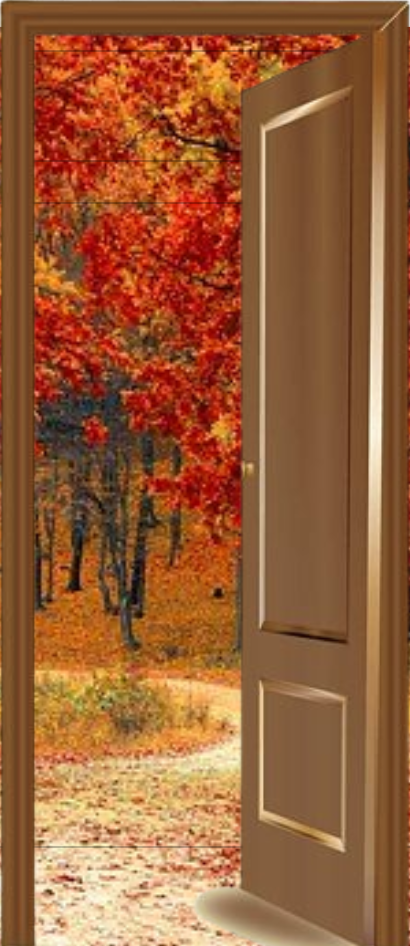
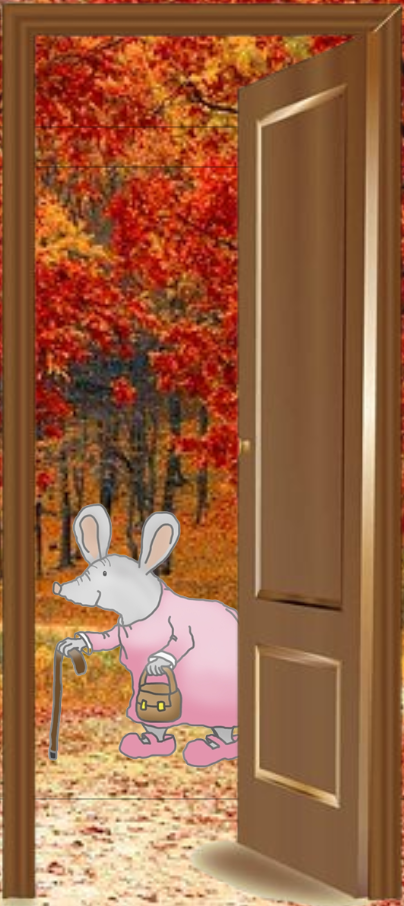
added grandma

diff --git a/app/main.js b/app/main.js
@@ -45,24 +45,21 @@ Leap.loop({
 
     // SETUP mode
     if (gameState.get("state") == "setup") {
-
       cursorObject.setProperties({ backgroundColor: "pink" });
-      currentRoom.getItems()
-        .forEach((item) => {
-          if (item.isHovered(cursorPosition)) {
-            if (item.get("grabbable")) {
-              cursorObject.setProperties({ backgroundColor: "#00ffff" });
-            } else {
-              cursorObject.setProperties({ backgroundColor: "#66ff33" });
-            }
+      currentRoom.getItems().forEach((item) => {
+        if (item.isHovered(cursorPosition)) {
+          if (item.get("grabbable")) {
+            cursorObject.setProperties({ backgroundColor: "#00ffff" });
+          } else {
+            cursorObject.setProperties({ backgroundColor: "#66ff33" });
           }
-        });
+        }
+      });
 
       isGrabbing = hand.grabStrength > 0.5;
       if (isGrabbing) {
         console.log("isGrabbing");
         if (tryGrab()) {
-
         } else if (!disableTransition) {
           if (cursorPosition[0] < window.innerWidth * 0.1) {
             currentRoom.transition("left");
@@ -87,23 +84,19 @@ Leap.loop({
         if (grabbedItem) {
           grabbedItem.set("holding", true);
         }
-      }
-
-      else if (grabbedItem && isGrabbing) {
-        itemPosition = [cursorPosition[0] - grabbedOffset[0], cursorPosition[1] - grabbedOffset[1]];
+      } else if (grabbedItem && isGrabbing) {
+        itemPosition = [
+          cursorPosition[0] - grabbedOffset[0],
+          cursorPosition[1] - grabbedOffset[1],
+        ];
         grabbedItem.set("position", itemPosition);
         // move the item
-      }
-  
-      else if (grabbedItem && !isGrabbing) {
+      } else if (grabbedItem && !isGrabbing) {
         // check if they can use the item
         var hoveredItem = getHoveredItem(cursor.get("screenPosition"));
-        
+
         if (hoveredItem) {
-          var objectWasUsed = useObjectOnItem(
-            grabbedItem,
-            hoveredItem
-          );
+          var objectWasUsed = useObjectOnItem(grabbedItem, hoveredItem);
           if (objectWasUsed) {
             inventory.removeItem(grabbedItem, 1);
             currentRoom.drawView();
@@ -180,10 +173,7 @@ var processSpeech = function (transcript) {
       tryGrab();
     } else if (hoveredItem && usedItem) {
       processed = true;
-      var objectWasUsed = useObjectOnItem(
-        usedItem,
-        hoveredItem
-      );
+      var objectWasUsed = useObjectOnItem(usedItem, hoveredItem);
       if (objectWasUsed) {
         inventory.removeItem(usedItem, 1);
         inventory.draw();
@@ -259,7 +249,7 @@ function useObjectOnItem(object, item) {
         item.set("isOpen", true);
         item.set("source", "img/door_opened.png");
         generateSpeech(
-          "You unlocked the door. Congrats on solving the escape room"
+          "You unlocked the door. You see the mouse's gradnma waiting for him outside. Congrats on solving the escape room"
         );
         currentRoom.drawView();
         return true;
@@ -278,7 +268,7 @@ function useObjectOnItem(object, item) {
         );
         inventory.addItem(key);
         console.log(key);
-        console.log('items:', inventory.get('items'));
+        console.log("items:", inventory.get("items"));
         currentRoom.drawView();
         return true;
       } else if (item.get("state") == "happy") {

diff --git a/app/room1.js b/app/room1.js
@@ -9,7 +9,7 @@ mousehole = new Item({
       ? "img/mousehole_happy.png"
       : "img/mousehole_dead.png";
   },
-  size: [100, 100],
+  size: [130, 100],
   position: [window.innerWidth * 0.5, window.innerHeight * 0.605],
   name: "mousehole",
   get description() {
@@ -94,7 +94,7 @@ dresser = new Item({
   source: "img/dresser.png",
   size: [window.innerWidth * 0.4, window.innerWidth * 0.25],
   name: "dresser",
-  position: [window.innerWidth * 0.4, window.innerHeight * 0.38],
+  position: [window.innerWidth * 0.4, window.innerHeight * 0.4],
 });
 
 windowLarge = new Item({
@@ -107,7 +107,7 @@ windowLarge = new Item({
 mashedPotatoes = new Item({
   source: "img/mashed_potatoes.png",
   size: [window.innerWidth * 0.04, window.innerWidth * 0.07],
-  position: [window.innerWidth * 0.45, window.innerHeight * 0.3],
+  position: [window.innerWidth * 0.45, window.innerHeight * 0.33],
   grabbable: true,
   name: "mashed potatoes",
 });
